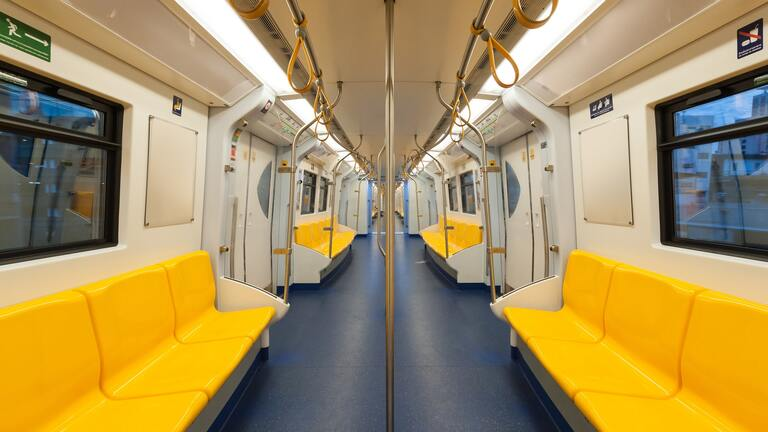
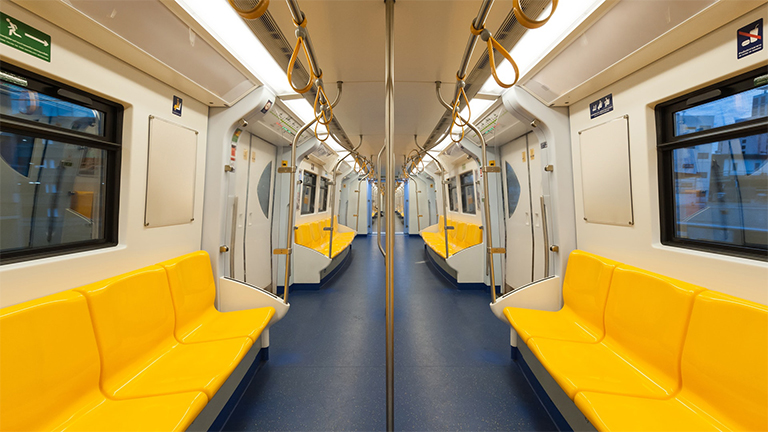
resize 768px images for better quality

diff --git a/contact_us.html b/contact_us.html
@@ -38,9 +38,9 @@
             </div>
         </nav>
     </header>
-    <div id="banner__contactUs" class="d-flex align-items-center vh-40">
-        <div class="mx-auto text-black text-uppercase">
-            <div class="tittle fs-1 text-center">Contact Us</div>
+    <div id="banner__contactUs" class="d-flex align-items-end vh-40">
+        <div class="mx-auto text-black text-uppercase mb-3">
+            <div class="tittle fs-1 text-center">Contact <span class="text-main">Us</span></div>
             <div id="contact__networks" class="d-flex gap-1 justify-content-center rounded lh-3 border-2">
                 <div><a class="text-decoration-none" href="https://www.instagram.com" target="_blank">Instagram</a></div>
                 <div><a class="text-decoration-none" href="https://www.twitter.com" target="_blank">Twitter</a></div>

diff --git a/styles/_contact_us.scss b/styles/_contact_us.scss
@@ -1,6 +1,6 @@
 #banner__contactUs{
     background-image: map-get($banners-img , banner_contact_us);
-    @include banners-position (bottom);
+    @include banners-position (top);
     @media all and (max-width:768px) {
         background-image: map-get($banners-img-768 , banner_contact_us-768 );
     }

diff --git a/styles/styles.css b/styles/styles.css
@@ -159,7 +159,7 @@ body {
   background-size: cover;
   height: 500px;
   min-height: 60vh;
-  background-position: bottom;
+  background-position: top;
 }
 @media all and (max-width: 768px) {
   #banner__contactUs {
